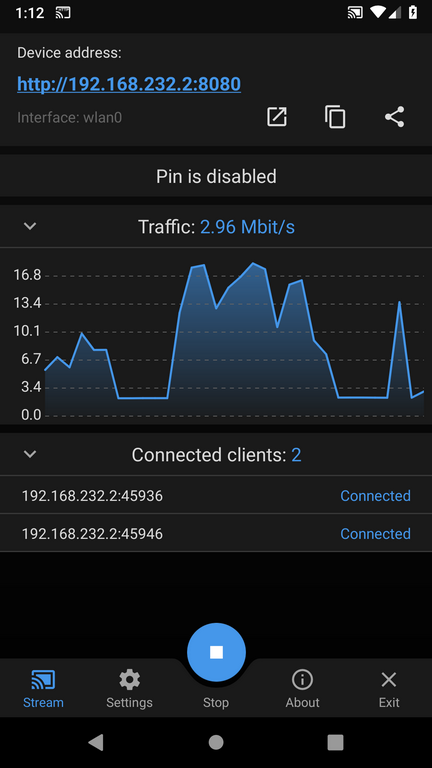
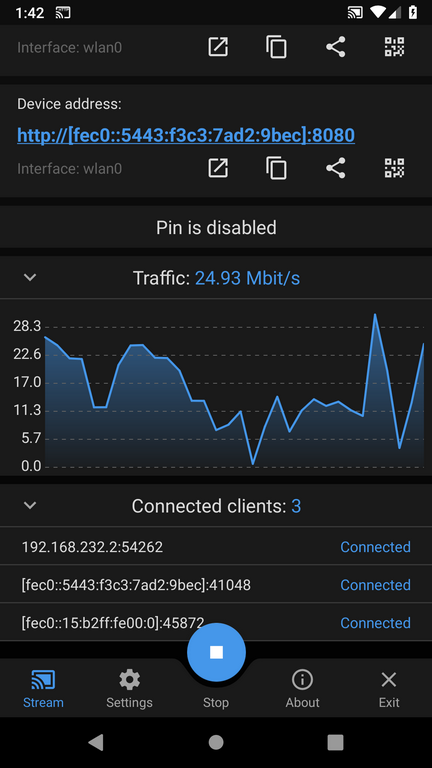
Readme update

diff --git a/README.md b/README.md
@@ -50,9 +50,7 @@ Application uses Android Cast feature and requires at least Android 5.0 to run.
 ![](screenshots/screenshot_9.png)&nbsp;
 ![](screenshots/screenshot_10.png)<br>
 ![](screenshots/screenshot_11.png)&nbsp;
-![](screenshots/screenshot_12.png)<br>
-![](screenshots/screenshot_13.png)&nbsp;
-![](screenshots/screenshot_14.png)
+![](screenshots/screenshot_12.png)
 
 
 ## Features and libraries
@@ -63,6 +61,7 @@ Version 3.x based on Clean Architecture, Single Activity and MVI patterns and us
 * [Android Jetpack libraries](https://developer.android.com/jetpack/)
 * [Koin](https://github.com/Ekito/koin)
 * [Alerter](https://github.com/Tapadoo/Alerter)
+* [ZXing](https://github.com/zxing/zxing)
 * [Material Dialogs](https://github.com/afollestad/material-dialogs)
 * [Binary Preferences](https://github.com/iamironz/binaryprefs)
 * [RxJava 1.x](https://github.com/ReactiveX/RxJava/tree/1.x)
